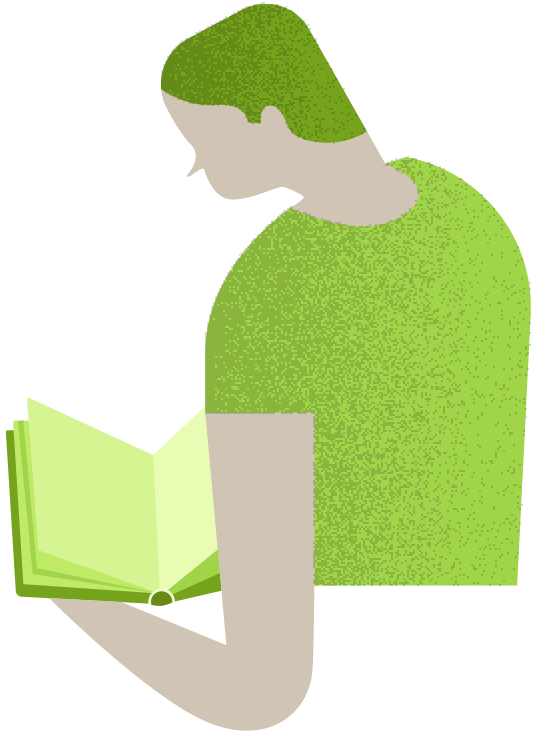
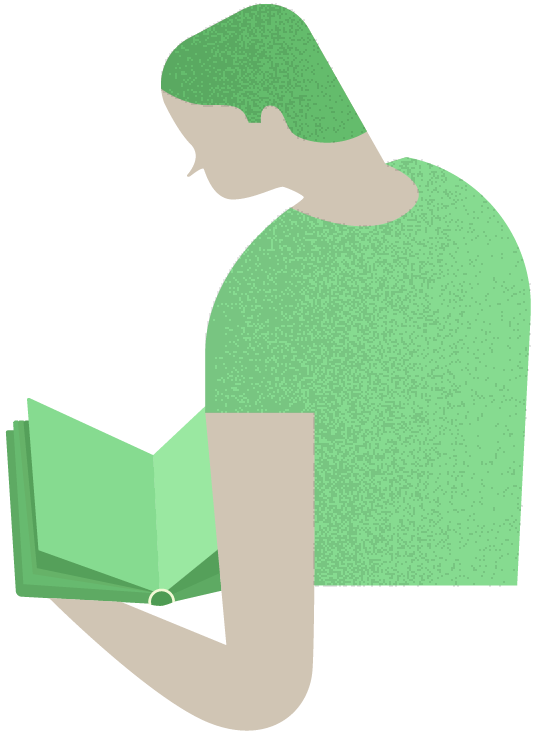
legend back

diff --git a/app/assets/javascripts/views/maps/map_home_view.js b/app/assets/javascripts/views/maps/map_home_view.js
@@ -132,25 +132,16 @@
     },
 
     _paintLegend: function() {
-      var $bucketList = $('#mapLegendView').find('.bucket');
+      var bucketList = $('#mapLegendView').find('.bucket span');
 
-      _.each($bucketList, function(bucket, index) {
+      _.each(bucketList, function(bucket, index) {
         var color = this.defaults.buckets[this.status.get('target') + 'bc' + (index + 1)];
         var value = this.defaults.values[this.status.get('target') === 'wasting' ? 'wasting' : 'all']['v' + (index + 1)];
 
-        $(bucket).find('.color').attr('style', 'background-color:' + color );
-        $(bucket).find('.title').html(value);
+        $(bucket).attr('style', 'background-color:' + color );
+        $(bucket).html(value);
       }.bind(this));
 
-      var $legendText = $('#mapLegendView').find('.js-legend-title');
-      var text = this.defaults.legendText[this.status.get('target')];
-      $legendText.html(text);
-
-      var $prevalenceText  = $('.js-prevalence-text');
-      var prevalenceText = this.defaults.prevalenceText[this.status.get('target')];
-      $prevalenceText.html(prevalenceText);
-
-      $('.js--funding-needs-target').html(this.status.get('target'));
     },
 
     _parseData: function(data) {

diff --git a/app/assets/stylesheets/layouts/_l-content-large.scss b/app/assets/stylesheets/layouts/_l-content-large.scss
@@ -41,9 +41,9 @@
     }
 
     @media screen and (min-width: $screen-l) {
-      .c-accordion {
-        margin-top: rem(-60px);
-      }
+      // .c-accordion {
+      //   margin-top: rem(-60px);
+      // }
     }
   }
 
@@ -53,15 +53,15 @@
     @media screen and (min-width: $screen-m) {
       border: 0;
 
-      .c-accordion {
-        margin-top: rem(-50px);
-      }
+      // .c-accordion {
+      //   margin-top: rem(-50px);
+      // }
     }
 
     @media screen and (min-width: $screen-l) {
-      .c-accordion {
-        margin-top: rem(-50px);
-      }
+      // .c-accordion {
+      //   margin-top: rem(-50px);
+      // }
     }
   }
 
@@ -73,9 +73,9 @@
     }
 
     @media screen and (min-width: $screen-l) {
-      .c-accordion {
-        margin-top: rem(-50px);
-      }
+      // .c-accordion {
+      //   margin-top: rem(-50px);
+      // }
     }
   }
 
@@ -87,9 +87,9 @@
     }
 
     @media screen and (min-width: $screen-l) {
-      .c-accordion {
-        margin-top: rem(-40px);
-      }
+      // .c-accordion {
+      //   margin-top: rem(-40px);
+      // }
     }
   }
 

diff --git a/app/assets/stylesheets/components/_c-map-legend.scss b/app/assets/stylesheets/components/_c-map-legend.scss
@@ -1,6 +1,6 @@
 .c-map-legend {
-  float: left;
   width: 100%;
+  margin-bottom: 70px;
 
   h4 {
     margin: rem(10px) 0 rem(5px);
@@ -11,23 +11,30 @@
   }
 
   .buckets {
+    display: flex;
+    flex-direction: row;
+    justify-content: center;
+    align-items: center;
+
     .bucket {
-      width: 50%;
-      float: left;
-      margin-bottom: rem(5px);
+      width: 100%;
+      text-align: center;
 
-      .color {
-        display: inline-block;
+      span {
+        display: block;
         height: rem(10px);
-        width: rem(10px);
-        border-radius: 50%;
-        margin: 0;
-        margin-right: rem(15px);
-        border: 1px solid rgba(216, 216, 216, 0.5);
+        width: 100%;
+        margin-bottom: rem(5px);
+        padding-top: rem(10px);
 
-        &.default {
-          background-color: rgba(#d8d8d8, 0.5);
+        @media screen and (min-width: $screen-m) {
+          margin: 0;
         }
+      }
+
+      .default {
+        background-color: rgba(#d8d8d8, 0.5);
+        margin-left: rem(5px);
       }
     }
   }

diff --git a/app/assets/stylesheets/settings/_settings.scss b/app/assets/stylesheets/settings/_settings.scss
@@ -28,7 +28,7 @@ $greyish-brown: #595755;
 $stone: #a99c89;
 $stone-dark: #81786b;
 
-$light-olive-green: #aecc4f;
+$light-olive-green: #47b655;
 $dark-coral: #d26358;
 $macaroni-and-cheese: #efbb37;
 $light-purple: #ca82f8;
